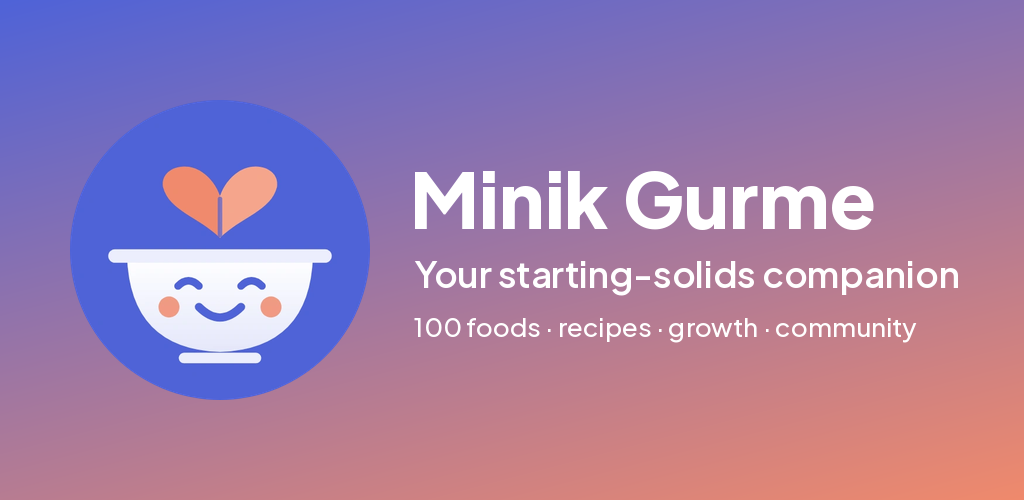
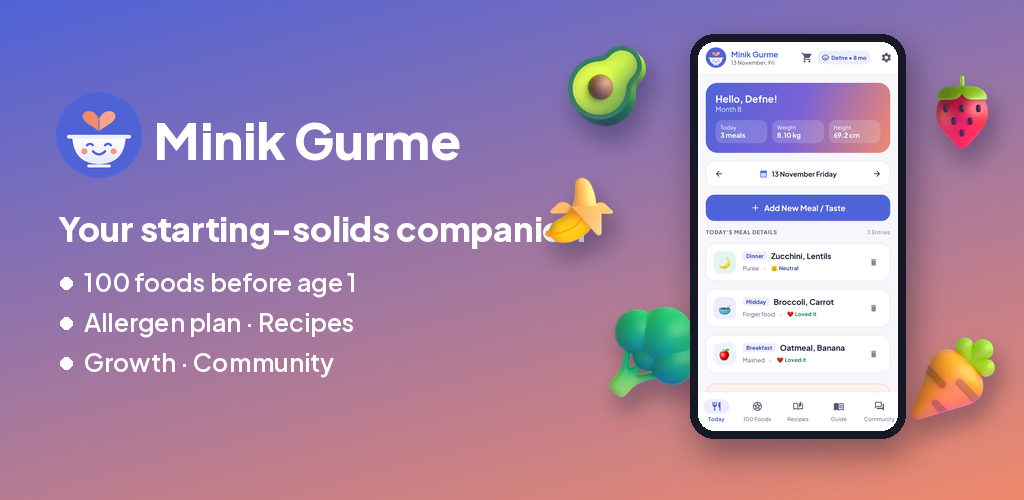
Mağaza görselleri: öne çıkan görselde uygulama ekranı + 3D besin çizimleri; 7. ekran görüntüsü besin panosu (TR/EN)
Claude-Session: https://claude.ai/code/session_01Q1LBDi3XRbM94bBTngmwXh

diff --git a/minik_gurme/tool/store_graphics.py b/minik_gurme/tool/store_graphics.py
@@ -67,18 +67,78 @@ def framed(shot_path, caption):
     out.paste(shot, ((W - sw) // 2, top), mask)
     return out.convert("RGB")
 
+DRAW = os.path.join(ROOT, "shared/src/commonMain/composeResources/drawable")
+
+def food(name, size):
+    return Image.open(os.path.join(DRAW, name + ".webp")).convert("RGBA").resize((size, size), Image.LANCZOS)
+
+def phone_frame(shot_path, width):
+    s = Image.open(shot_path).convert("RGB")
+    sh = int(s.height * width / s.width); s = s.resize((width, sh), Image.LANCZOS)
+    b = max(8, width // 26); W, H = width + 2 * b, sh + 2 * b
+    f = Image.new("RGBA", (W, H), (0, 0, 0, 0))
+    ImageDraw.Draw(f).rounded_rectangle((0, 0, W - 1, H - 1), b * 3, fill=(22, 24, 38, 255))
+    m = Image.new("L", s.size, 0); ImageDraw.Draw(m).rounded_rectangle((0, 0, width - 1, sh - 1), b * 2, fill=255)
+    f.paste(s, (b, b), m)
+    return f
+
+def with_shadow(canvas, img, xy, blur=16, alpha=110):
+    sh = Image.new("RGBA", canvas.size, (0, 0, 0, 0))
+    sh.paste((20, 20, 60, 255), (xy[0] + 6, xy[1] + 14), img.split()[-1].point(lambda v: alpha if v else 0))
+    canvas.alpha_composite(sh.filter(ImageFilter.GaussianBlur(blur))); canvas.alpha_composite(img, xy)
+
 def feature(lang):
+    """Öne çıkan görsel: logo + başlık, telefon çerçevesinde uygulama ekranı ve uygulamadaki 3D besin çizimleri."""
     W, H = 1024, 500
     bg = gradient(W, H).convert("RGBA")
-    logo = Image.open(LOGO).convert("RGBA").resize((300, 300), Image.LANCZOS)
-    bg.alpha_composite(logo, (70, 100))
     d = ImageDraw.Draw(bg)
-    d.text((410, 150), "Minik Gurme", font=font("extrabold", 76), fill="white")
+    logo = Image.open(LOGO).convert("RGBA").resize((86, 86), Image.LANCZOS)
+    bg.alpha_composite(logo, (56, 92))
+    d.text((154, 108), "Minik Gurme", font=font("extrabold", 50), fill="white")
     sub = "Ek gıdaya geçiş rehberiniz" if lang == "tr" else "Your starting-solids companion"
-    d.text((414, 250), sub, font=font("semibold", 36), fill=(255, 255, 255, 235))
-    tags = "100 gıda · tarifler · büyüme · topluluk" if lang == "tr" else "100 foods · recipes · growth · community"
-    d.text((414, 310), tags, font=font("medium", 26), fill=(255, 255, 255, 210))
+    d.text((58, 206), sub, font=font("extrabold", 34), fill="white")
+    tags = ["1 yaşına kadar 100 gıda", "Alerjen planı · Tarifler", "Büyüme · Topluluk"] if lang == "tr" else \
+           ["100 foods before age 1", "Allergen plan · Recipes", "Growth · Community"]
+    y = 266
+    for t in tags:
+        d.ellipse((60, y + 11, 72, y + 23), fill="white"); d.text((84, y), t, font=font("semibold", 25), fill=(255, 255, 255, 240)); y += 40
+    # Besin çizimleri (uygulamadaki 3D görseller)
+    for name, x, yy, sz in [("emoji_1f951", 560, 40, 92), ("emoji_1f966", 600, 300, 104), ("emoji_1f955", 905, 330, 96),
+                            ("emoji_1f353", 920, 70, 84), ("emoji_1f34c", 540, 170, 78)]:
+        with_shadow(bg, food(name, sz), (x, yy), blur=10, alpha=80)
+    p = phone_frame(os.path.join(SHOTS, f"{lang}_1_today.png"), 200)
+    with_shadow(bg, p, (690, 34))
     return bg.convert("RGB")
+
+def foods_showcase(lang):
+    """7. ekran görüntüsü: uygulamadaki 100 besin çiziminden pano."""
+    import re
+    W, H = 1080, 1920
+    bg = gradient(W, H)
+    d = ImageDraw.Draw(bg)
+    cap = "100 besin, 100 renkli çizim" if lang == "tr" else "100 foods, 100 colourful illustrations"
+    f = font("extrabold", 74); yy = 120
+    for line in wrap(d, cap, f, W - 140):
+        d.text(((W - d.textlength(line, font=f)) / 2, yy), line, font=f, fill="white"); yy += 92
+    src = open(os.path.join(ROOT, "shared/src/commonMain/kotlin/akinai/minikgurme/ui/components/FoodImage.kt"), encoding="utf-8").read()
+    names = list(dict.fromkeys(re.findall(r"Res\.drawable\.((?:emoji|food)_\w+)", src)))
+    skip = {"emoji_1f32d", "emoji_2600", "emoji_26a0", "emoji_1f308", "emoji_1f319", "emoji_1f324", "emoji_1f3af", "emoji_1f4da", "emoji_1f50d", "emoji_1fa7a", "emoji_1f4cf", "emoji_1f9ea", "emoji_1f37d"}
+    names = [n for n in names if n not in skip and os.path.exists(os.path.join(DRAW, n + ".webp"))]
+    # Düz çizimleri (emoji) ve renklendirilmiş besinleri (food_) karıştır
+    em = [n for n in names if n.startswith("emoji_")]; fd = [n for n in names if n.startswith("food_")]
+    names = [x for pair in zip(em, fd) for x in pair] + em[len(fd):] + fd[len(em):]
+    card = Image.new("RGBA", (W - 120, H - yy - 120), (255, 255, 255, 235))
+    m = Image.new("L", card.size, 0); ImageDraw.Draw(m).rounded_rectangle((0, 0, card.width - 1, card.height - 1), 48, fill=255)
+    out = bg.convert("RGBA"); out.paste(card, (60, yy + 50), m)
+    cols, icon = 6, 128
+    cell = (W - 120 - 40) // cols
+    rows = (card.height - 40) // (icon + 14)
+    gap_y = (card.height - 40 - rows * icon) / max(1, rows - 1)
+    for i, n in enumerate(names[: cols * rows]):
+        r, c = divmod(i, cols)
+        x = 60 + 20 + c * cell + (cell - icon) // 2; y = int(yy + 50 + 20 + r * (icon + gap_y))
+        out.alpha_composite(food(n, icon), (x, y))
+    return out.convert("RGB")
 
 def main():
     os.makedirs(OUT, exist_ok=True)
@@ -88,6 +148,7 @@ def main():
         feature(lang).save(os.path.join(d, "feature-1024x500.png"))
         for i, (n, cap) in enumerate(zip(NAMES, CAPTIONS[lang])):
             framed(os.path.join(SHOTS, f"{lang}_{n}.png"), cap).save(os.path.join(d, f"phone-{i+1}.png"), optimize=True)
+        foods_showcase(lang).save(os.path.join(d, "phone-7.png"), optimize=True)
     print("Mağaza görselleri:", OUT)
 
 if __name__ == "__main__":

diff --git a/minik_gurme/docs/store/MAGAZA-METINLERI.md b/minik_gurme/docs/store/MAGAZA-METINLERI.md
@@ -53,7 +53,8 @@ The app provides general information and does not replace medical advice. Please
 ## Görseller (docs/store)
 - Simge: `icon-512.png`
 - Öne çıkan görsel: `tr/feature-1024x500.png`, `en/feature-1024x500.png`
-- Telefon ekran görüntüleri (1080×1920): `tr/phone-1..6.png`, `en/phone-1..6.png`
+- Telefon ekran görüntüleri (1080×1920): `tr/phone-1..7.png`, `en/phone-1..7.png` (7: uygulamadaki besin çizimlerinden pano)
+- Öne çıkan görsel uygulama ekranı ve besin çizimleri içerir
 - Yeniden üretmek: `./gradlew :app:testDebugUnitTest --tests '*StoreScreenshotsTest'` → `python3 tool/store_graphics.py`
 
 ## Tanıtım görselleri (docs/store/promo/tr, docs/store/promo/en)
